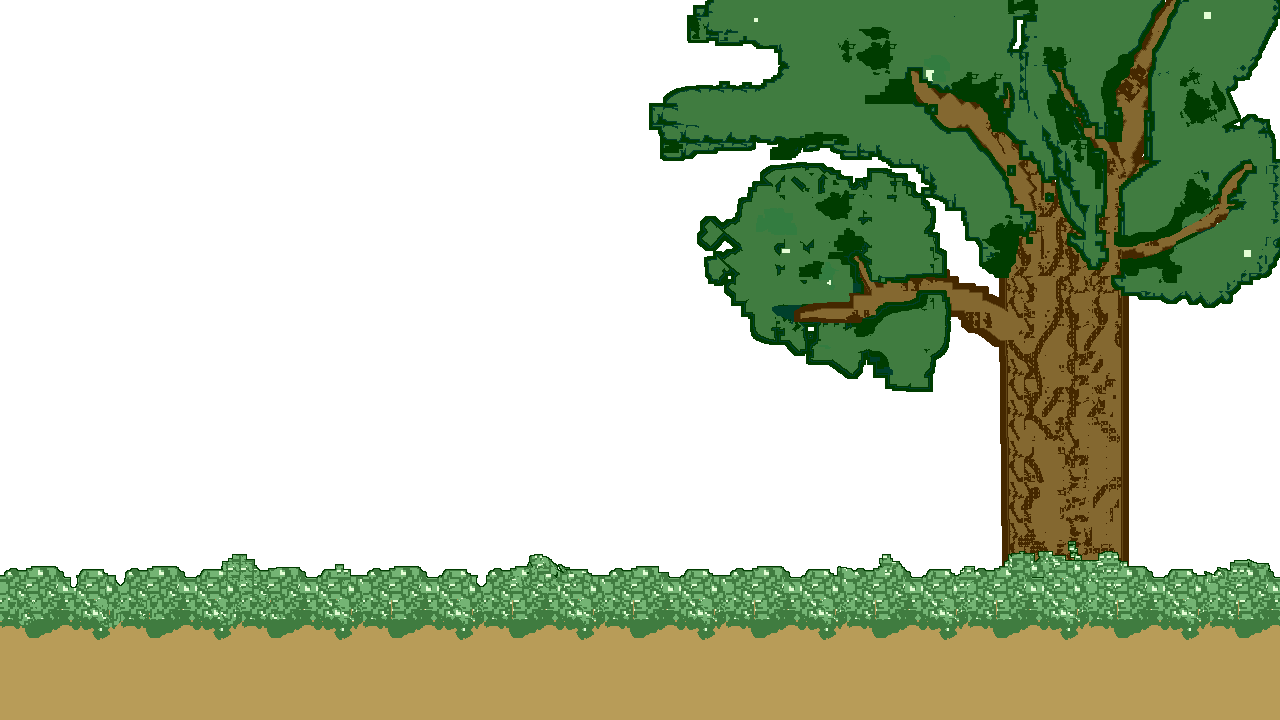
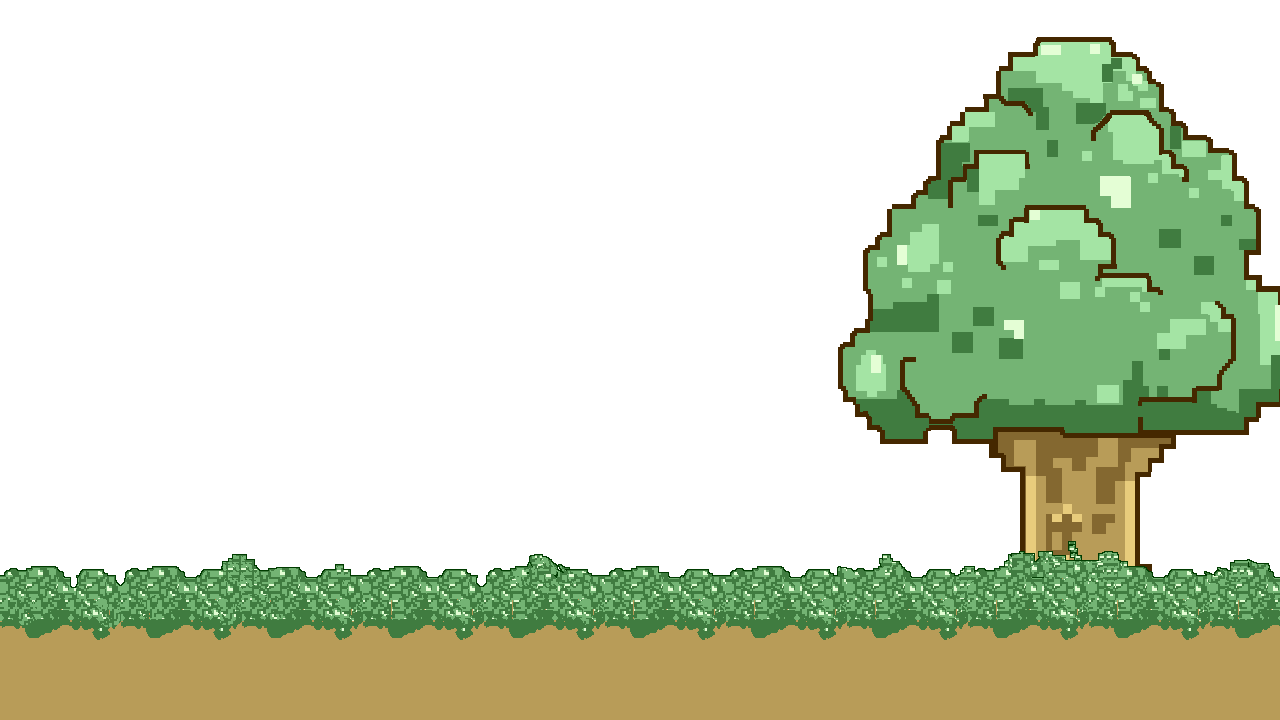
森ステージの背景変更

Changed region(s): [[0.5, 0.0, 1.0, 0.7944]]

diff --git a/tenDays/ForestResources.cpp b/tenDays/ForestResources.cpp
@@ -18,7 +18,7 @@ ForestResources::~ForestResources()
 void ForestResources::Init(int* background)
 {
 	DeleteGraph(*background);
-	*background = LoadGraph("./Resources/forestback/forestback.png");
+	*background = LoadGraph("./Resources/forestback/sky.png");
 	Load();
 }
 
@@ -43,7 +43,7 @@ void ForestResources::Load()
 	}
 	if (smallLeaf == -1)
 	{
-		smallLeaf = LoadGraph("./Resources/forestback/SmallLeaf.png");
+		//smallLeaf = LoadGraph("./Resources/forestback/SmallLeaf.png");
 	}
 	if (groundAndTree == -1)
 	{
@@ -88,8 +88,8 @@ void ForestResources::BigLeafAnimation()
 
 		if (animationCount >= maxCount)
 		{
-			bigLeafPos.x = 740.0f;
-			bigLeafPos.y = 404.0f;
+			bigLeafPos.x = 860.0f;
+			bigLeafPos.y = 420.0f;
 			animationCount -= maxCount;
 		}
 		else
